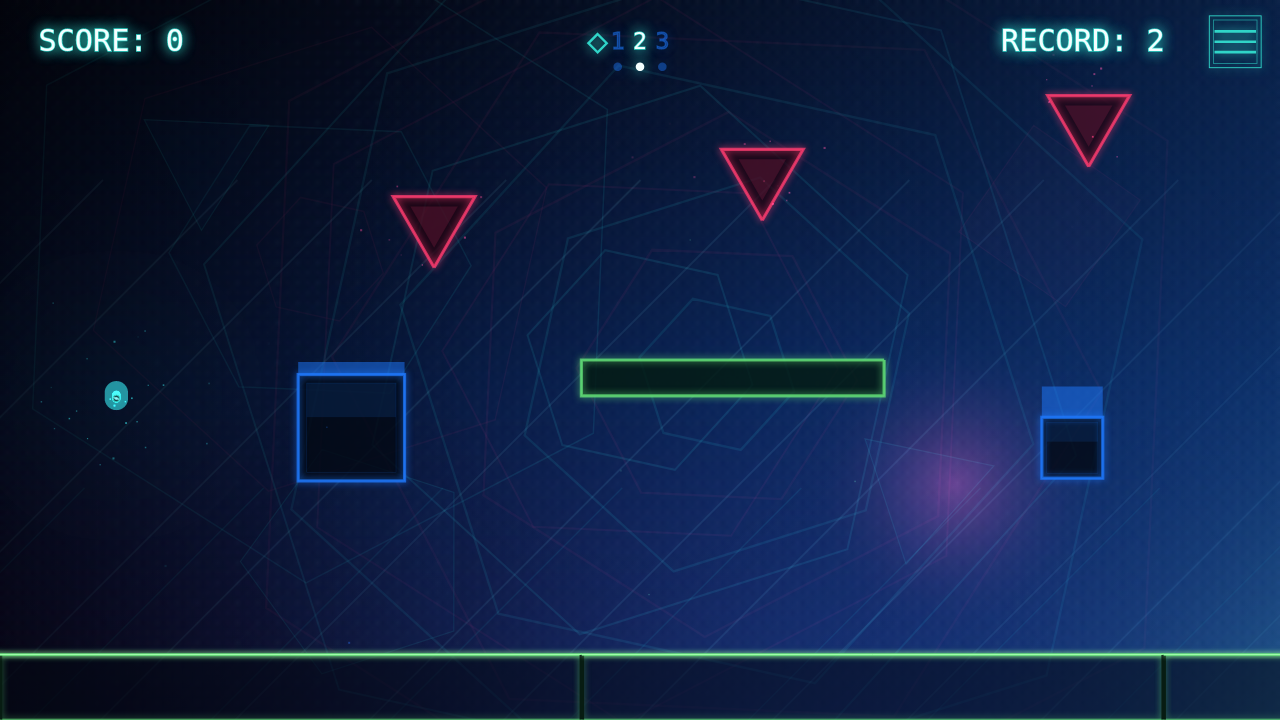
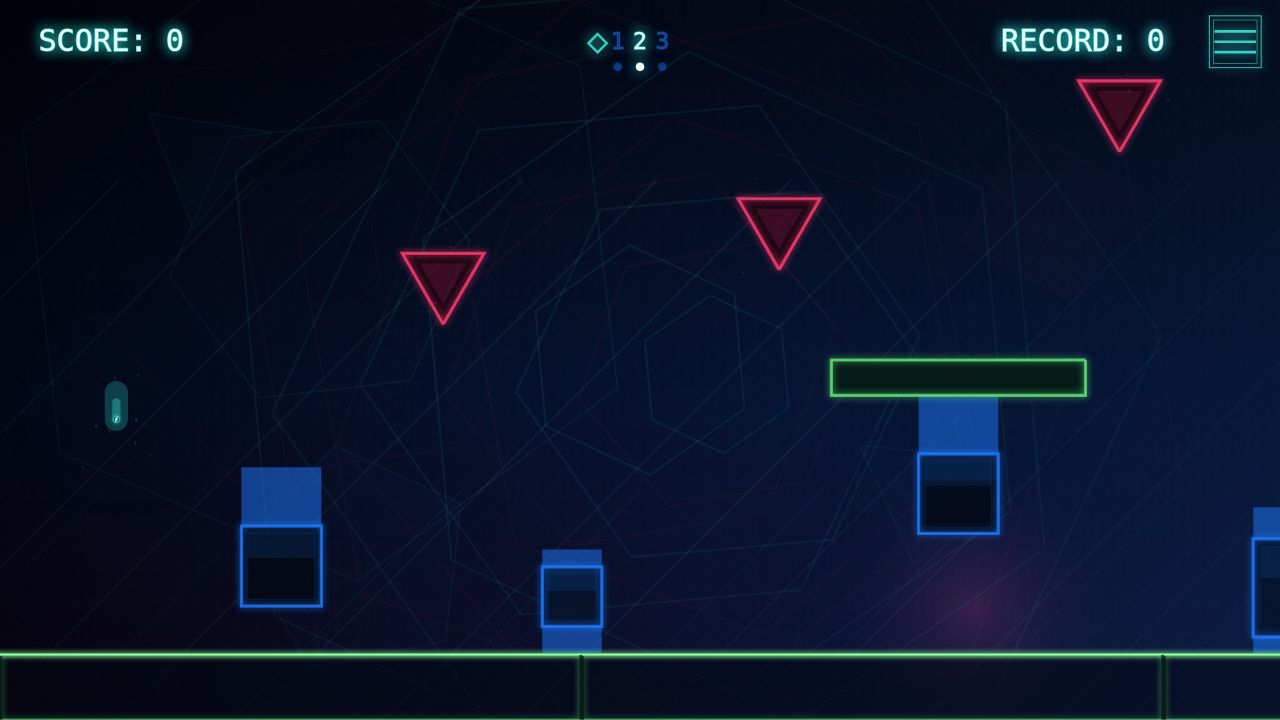
TASK-026: Stabilize bad-version brightness

diff --git a/render/effects.js b/render/effects.js
@@ -462,10 +462,17 @@ class LightmapRenderer
         const viewWidth = this.canvas.width / scale[version]
         const viewHeight = this.canvas.height / scale[version]
         const badLights = this.getBadVersionLights()
+        const stableLightMultiplier = STYLE.visualStability.stableBrightness
+            ? STYLE.visualStability.stableLightCompositeMultiplier
+            : 1
 
         this.ctx.save()
-        this.ctx.globalAlpha = this.clampAlpha(STYLE.lights.compositeAlpha * badLights.compositeAlphaMultiplier)
-        this.ctx.globalCompositeOperation = 'lighter'
+        this.ctx.globalAlpha = this.clampAlpha(
+            STYLE.lights.compositeAlpha
+            * badLights.compositeAlphaMultiplier
+            * stableLightMultiplier
+        )
+        this.ctx.globalCompositeOperation = this.getEffectCompositeOperation()
         this.ctx.imageSmoothingEnabled = true
         this.ctx.drawImage(this.lightCanvas, 0, 0, viewWidth, viewHeight)
         this.ctx.restore()
@@ -499,6 +506,12 @@ class LightmapRenderer
         }
 
         return STYLE.badVersionEffects.lights
+    }
+    getEffectCompositeOperation()
+    {
+        return STYLE.visualStability.stableBrightness
+            ? STYLE.visualStability.effectCompositeOperation
+            : 'lighter'
     }
     isBadVersion()
     {
@@ -553,14 +566,14 @@ class ParticleSystem
             return
 
         this.ctx.save()
-        this.ctx.globalCompositeOperation = 'lighter'
+        this.ctx.globalCompositeOperation = this.getEffectCompositeOperation()
 
         for (let i = 0; i < this.particles.length; ++i)
         {
             const particle = this.particles[i]
             const progress = particle.life / particle.maxLife
 
-            this.ctx.globalAlpha = Math.max(0, progress) * particle.alpha
+            this.ctx.globalAlpha = Math.max(0, progress) * particle.alpha * this.getStableAlphaMultiplier()
             this.ctx.fillStyle = particle.color
             this.ctx.fillRect(
                 particle.x - particle.size / 2,
@@ -753,6 +766,18 @@ class ParticleSystem
     {
         return Math.max(0, Math.min(1, alpha))
     }
+    getEffectCompositeOperation()
+    {
+        return STYLE.visualStability.stableBrightness
+            ? STYLE.visualStability.effectCompositeOperation
+            : 'lighter'
+    }
+    getStableAlphaMultiplier()
+    {
+        return STYLE.visualStability.stableBrightness
+            ? STYLE.visualStability.stableEffectAlphaMultiplier
+            : 1
+    }
 }
 
 class PlayerTrailRenderer
@@ -787,7 +812,7 @@ class PlayerTrailRenderer
         ctx.save()
         ctx.lineCap = 'round'
         ctx.lineJoin = 'round'
-        ctx.globalCompositeOperation = 'lighter'
+        ctx.globalCompositeOperation = this.getEffectCompositeOperation()
         ctx.strokeStyle = STYLE.colors.player.trail
         ctx.shadowColor = STYLE.colors.player.trail
 
@@ -796,7 +821,7 @@ class PlayerTrailRenderer
             Math.max(0, visibleStart - 1),
             positions.length,
             width,
-            this.clampAlpha(config.maxAlpha * badTrails.alphaMultiplier),
+            this.clampAlpha(config.maxAlpha * badTrails.alphaMultiplier * this.getStableAlphaMultiplier()),
             glowWidth
         )
 
@@ -808,7 +833,7 @@ class PlayerTrailRenderer
                 tailStart - 1,
                 positions.length,
                 Math.max(track.lineWidth, width * 0.36),
-                this.clampAlpha(config.coreAlpha * badTrails.alphaMultiplier),
+                this.clampAlpha(config.coreAlpha * badTrails.alphaMultiplier * this.getStableAlphaMultiplier()),
                 0
             )
         }
@@ -854,6 +879,18 @@ class PlayerTrailRenderer
     clampAlpha(alpha)
     {
         return Math.max(0, Math.min(1, alpha))
+    }
+    getEffectCompositeOperation()
+    {
+        return STYLE.visualStability.stableBrightness
+            ? STYLE.visualStability.effectCompositeOperation
+            : 'lighter'
+    }
+    getStableAlphaMultiplier()
+    {
+        return STYLE.visualStability.stableBrightness
+            ? STYLE.visualStability.stableEffectAlphaMultiplier
+            : 1
     }
 }
 
@@ -928,7 +965,9 @@ class ScreenEffects
         const config = STYLE.screenEffects
 
         this.ctx.save()
-        this.ctx.globalCompositeOperation = 'lighter'
+        this.ctx.globalCompositeOperation = STYLE.visualStability.stableBrightness
+            ? STYLE.visualStability.effectCompositeOperation
+            : 'lighter'
         this.ctx.strokeStyle = STYLE.colors.player.cyan
         this.ctx.shadowColor = STYLE.colors.player.cyan
         this.ctx.lineWidth = config.shockwaveLineWidth
@@ -949,7 +988,11 @@ class ScreenEffects
             const radius = config.shockwaveStartRadius
                 + (config.shockwaveEndRadius - config.shockwaveStartRadius) * eased
 
-            this.ctx.globalAlpha = config.shockwaveAlpha * (1 - progress)
+            const stableAlpha = STYLE.visualStability.stableBrightness
+                ? STYLE.visualStability.stableEffectAlphaMultiplier
+                : 1
+
+            this.ctx.globalAlpha = config.shockwaveAlpha * stableAlpha * (1 - progress)
             this.ctx.beginPath()
             this.ctx.arc(shockwave.x, shockwave.y, radius, 0, Math.PI * 2)
             this.ctx.stroke()

diff --git a/style.js b/style.js
@@ -264,7 +264,10 @@ const STYLE = Object.freeze({
         stableBrightness: true,
         freezeHazardPulse: true,
         freezeBackgroundParallax: true,
-        backgroundCompositeOperation: 'source-over'
+        backgroundCompositeOperation: 'source-over',
+        effectCompositeOperation: 'source-over',
+        stableEffectAlphaMultiplier: 0.42,
+        stableLightCompositeMultiplier: 0.5
     }),
     features: Object.freeze({
         background: true,

diff --git a/progress.md b/progress.md
@@ -24,3 +24,5 @@ TASK-023: Reworked the player trail as continuous smooth strokes instead of over
 TASK-024: Restored old-master color semantics with green safe objects, gray rect obstacles, blue jumping cubes, and red hazards; verified screenshot and no console errors. Gotcha: lights and particles now follow each object stroke color so categories stay distinct.
 TASK-025: Moved the player trail into a lower render layer before world objects; verified bad-version screenshot shows the centered platform and player drawing above the trail. Gotcha: screenshots/ is ignored, so TASK-025.png must be force-added.
 TASK-026: Stabilized dark bad-version brightness by reducing additive glow/background intensity, freezing hazard pulse brightness/parallax, and saving screenshots/TASK-026.png. Gotcha: no separate Image #4 file exists in the repo, so verification used the task's dark/stable brightness criteria and screenshot inspection.
+TASK-026 verification: Failed independent 30s bad-version progressed browser check; screenshot/TASK-026.png became pale/bright, mean brightness rose from about 34 to 150, despite no console errors and valid JSON.
+TASK-026: Replaced remaining additive stable visual composites with source-over and reduced stable effect/light alpha; 30s bad-version run stayed dark at mean brightness about 0.09-0.11 and refreshed screenshots/TASK-026.png. Gotcha: previous TASK-026 failure note remains in history for context.
